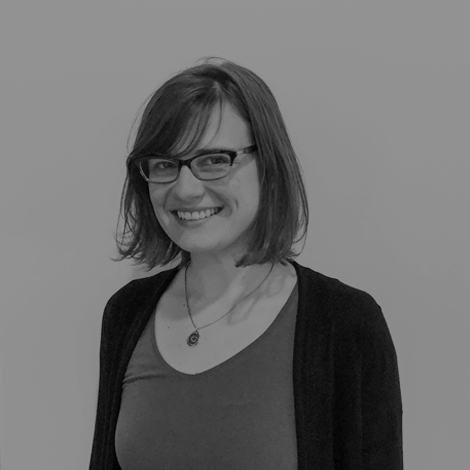
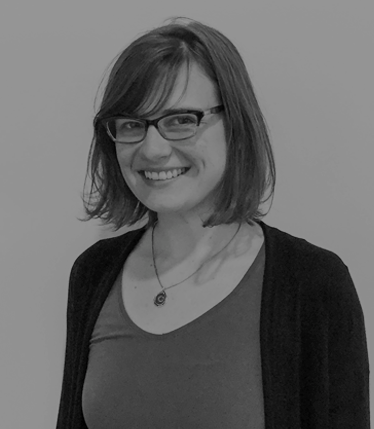
styled about section

Changed region(s): [[0.1471, 0.0303, 1.0, 1.0], [0.4706, 0.6364, 0.5, 0.6667], [0.3235, 0.7273, 0.3529, 0.7576]]

diff --git a/styles/main.css b/styles/main.css
@@ -1,1 +1,1 @@
-@font-face{font-family:'Code';src:url('fonts/Code_Pro_Demo-webfont.woff');font-weight:normal;font-style:normal}html{font-size:62.5%}body{font-family:Futura,Arial,sans-serif}.code-font{font-family:'Code',Futura,sans-serif}.body-font{font-family:Futura,sans-serif}header#header{z-index:1;display:none;position:fixed;width:100%;background-color:#323232;-webkit-transition:background-color 1s;transition:background-color 1s}header#header .headerName{float:left;display:inline-block;font-family:'Code',Futura,sans-serif;color:white}header#header .headerName h1{margin-top:10px;margin-bottom:10px;font-size:4.0rem;font-size:40px}header#header .headerName h2{margin-top:0;font-size:2.8rem;font-size:28px;text-align:center}header#header .header{float:right;display:inline-block;margin-top:10px}header#header .header .navbar{margin-bottom:0}header#header .header .navbar-default{background-color:transparent;border:none}header#header .header .navbar-default a{color:#fff}header#header .header .navbar-default .nav>li>a:hover,header#header .header .navbar-default .nav>li>a:focus{background-color:transparent}header#header .header .navbar-default .navbar-toggle{margin-top:4px;border:none}header#header .header .navbar-default .navbar-toggle:hover,header#header .header .navbar-default .navbar-toggle:focus{background-color:transparent}header#header .header .navbar-default .navbar-toggle .icon-bar{background-color:#fff}header#header .header .navbar-default .navbar-collapse{box-shadow:none;border-top:none}#header.scrollDown{background-color:#f3f3f3;-webkit-transition:background-color 1s;transition:background-color 1s}#top{position:absolute;top:0;height:100vh;width:100%}.portfolio-item{display:none;opacity:0}.portfolio-img{width:75%;height:75%}#portfolio .row{position:absolute;min-height:100vh;width:100%}#portfolio .row:first-child{top:100vh}#portfolio .row:nth-child(2){top:200vh}#portfolio .row:last-child{top:300vh}#portfolio #portfolio-description-1{display:none;opacity:0}#portfolio #portfolio-image-1{display:none;opacity:0}#portfolio #portfolio-image-1 img{width:75%;height:75%}#portfolio #portfolio-item-2{background-color:#f3f3f3}#portfolio #portfolio-item-2 #portfolio-description-2{display:none;opacity:0}#portfolio #portfolio-item-2 #portfolio-image-2{display:none;opacity:0}#portfolio #portfolio-item-2 #portfolio-image-2 img{width:75%;height:75%}#portfolio #portfolio-description-3{display:none;opacity:0}#portfolio #portfolio-image-3{display:none;opacity:0}#portfolio #portfolio-image-3 img{width:75%;height:75%}#about{position:absolute;top:0;height:100vh;width:100%}footer{position:absolute;top:400vh;width:100%;background-color:#323232}footer h1{font-family:'Code',Futura,sans-serif;color:#fff}footer .social-media-container ul{margin:25px auto 0 auto;width:255px;padding-left:0;list-style-type:none}footer .social-media-container ul li{display:inline-block;margin-left:15px;margin-right:15px}footer .social-media-container ul li .icon-github-01,footer .social-media-container ul li .icon-twitter-3,footer .social-media-container ul li .icon-linkedin,footer .social-media-container ul li .icon-mail{font-size:30rem;font-size:30px;color:#fff}footer p{margin-bottom:5px;text-align:right;font-family:'Code',Futura,sans-serif;color:#fff}
+@font-face{font-family:'Code';src:url('fonts/Code_Pro_Demo-webfont.woff');font-weight:normal;font-style:normal}html{font-size:62.5%}body{font-family:Futura,Arial,sans-serif}.code-font{font-family:'Code',Futura,sans-serif}.body-font{font-family:Futura,sans-serif}.section{position:absolute;height:100vh;width:100%}.vertical-align{position:absolute;top:50%;transform:translateY(-50%);-ms-transform:translateY(-50%);-webkit-transform:translateY(-50%)}header#header{z-index:1;display:none;position:fixed;width:100%;background-color:#323232;-webkit-transition:background-color 1s;transition:background-color 1s}header#header .headerName{float:left;display:inline-block;font-family:'Code',Futura,sans-serif;color:white}header#header .headerName h1{margin-top:10px;margin-bottom:10px;font-size:4.0rem;font-size:40px}header#header .headerName h2{margin-top:0;font-size:2.8rem;font-size:28px;text-align:center}header#header .header{float:right;display:inline-block;margin-top:10px}header#header .header .navbar{margin-bottom:0}header#header .header .navbar-default{background-color:transparent;border:none}header#header .header .navbar-default a{color:#fff}header#header .header .navbar-default .nav>li>a:hover,header#header .header .navbar-default .nav>li>a:focus{background-color:transparent}header#header .header .navbar-default .navbar-toggle{margin-top:4px;border:none}header#header .header .navbar-default .navbar-toggle:hover,header#header .header .navbar-default .navbar-toggle:focus{background-color:transparent}header#header .header .navbar-default .navbar-toggle .icon-bar{background-color:#fff}header#header .header .navbar-default .navbar-collapse{box-shadow:none;border-top:none}#header.scrollDown{background-color:#f3f3f3;-webkit-transition:background-color 1s;transition:background-color 1s}#top{position:absolute;height:100vh;width:100%;top:0}.portfolio-item{display:none;opacity:0}.portfolio-img{width:75%;height:75%}#portfolio .row{position:absolute;height:100vh;width:100%}#portfolio .row:first-child{top:100vh}#portfolio .row:nth-child(2){top:200vh}#portfolio .row:last-child{top:300vh}#portfolio #portfolio-description-1{display:none;opacity:0}#portfolio #portfolio-image-1{display:none;opacity:0}#portfolio #portfolio-image-1 img{width:75%;height:75%}#portfolio #portfolio-item-2{background-color:#f3f3f3}#portfolio #portfolio-item-2 #portfolio-description-2{display:none;opacity:0}#portfolio #portfolio-item-2 #portfolio-image-2{display:none;opacity:0}#portfolio #portfolio-item-2 #portfolio-image-2 img{width:75%;height:75%}#portfolio #portfolio-description-3{display:none;opacity:0}#portfolio #portfolio-image-3{display:none;opacity:0}#portfolio #portfolio-image-3 img{width:75%;height:75%}.about-container{position:relative;height:70vh}#about{position:absolute;top:400vh;height:90vh;width:100%;background-color:#f3f3f3;padding-top:10vh;padding-bottom:10vh}#about .about-image-container{position:relative;height:70vh}#about .about-image-container .about-image{position:absolute;top:50%;transform:translateY(-50%);-ms-transform:translateY(-50%);-webkit-transform:translateY(-50%)}#about .about-image-container .about-image img{height:100%;width:100%}#about .about-text-container{position:relative;height:70vh}#about .about-text-container .about-text{position:absolute;top:50%;transform:translateY(-50%);-ms-transform:translateY(-50%);-webkit-transform:translateY(-50%)}#about .about-text-container .about-text h1{font-family:'Code',Futura,sans-serif;margin-top:0;margin-bottom:10px;text-align:center}#about .about-text-container .about-text p{font-size:16rem;font-size:16px}footer{position:absolute;top:490vh;width:100%;background-color:#323232}footer h1{font-family:'Code',Futura,sans-serif;color:#fff}footer .social-media-container ul{margin:25px auto 0 auto;width:255px;padding-left:0;list-style-type:none}footer .social-media-container ul li{display:inline-block;margin-left:15px;margin-right:15px}footer .social-media-container ul li .icon-github-01,footer .social-media-container ul li .icon-twitter-3,footer .social-media-container ul li .icon-linkedin,footer .social-media-container ul li .icon-mail{font-size:30rem;font-size:30px;color:#fff}footer p{margin-bottom:5px;text-align:right;font-family:'Code',Futura,sans-serif;color:#fff}

diff --git a/index.html b/index.html
@@ -46,7 +46,7 @@
     </div>
   </header>
   <!--BODY/ABOUT-->
-  <div id="about">
+  <div id="top">
     <div class="container-fluid">
       <div class="row">
         <div class="col-md-5">
@@ -133,6 +133,24 @@
     </div>
   </div>
   <div id="about">
+    <div class="container-fluid">
+      <div class="row">
+        <div class="col-md-offset-2 col-md-3 about-image-container">
+          <div class="about-image">
+            <img src="styles/images/carmen_krol.png" />
+          </div>
+        </div>
+        <div class="col-md-4 about-text-container">
+          <div class="about-text">
+            <h1>Hi there!</h1>
+            <h1>I'm Carmen Krol</h1>
+            <p>I thrive at the intersection of programming and user design.  With my extensive front-end technical skillset and background in user interaction, I love creating useful web applications.</p> 
+            <p>I'm a Front-End Engineer at <a href="http://www.flyrlabs.com" target="_blank">FLYR</a> where I build web interfaces for our ground-breaking products using ReactJS and FluxJS.  I also advise on UI and design.</p>
+            <p>I'm an alum of the Front-End Development program at <a href="https://www.bloc.io" target="_blank">Bloc</a>. My interest in technology stems from my master's degree in Science & Technology Studies from Cornell University, where I researched how users interact with technology.</p>
+          </div>
+        </div>
+      </div>
+    </div>
   </div>
   <footer id="footer">
     <div class="container-fluid">

diff --git a/styles/about.less b/styles/about.less
@@ -1,6 +1,47 @@
+.about-container {
+  position: relative;
+  height: 70vh;
+}
+
 #about {
   position: absolute;
-  top: 0;
-  height: 100vh;
+  top: 400vh;
+  height: 90vh;
   width: 100%;
+  background-color: @light-grey;
+  padding-top: 10vh;
+  padding-bottom: 10vh;
+
+  .about-image-container {
+    .about-container;
+
+    .about-image {
+      .vertical-align;
+
+      img {
+        height: 100%;
+        width: 100%;
+      }
+    }
+  }
+
+  .about-text-container {
+    .about-container;
+
+    .about-text {
+      .vertical-align;
+      h1 {
+        .code-font;
+        margin-top: 0;
+        margin-bottom: 10px;
+        text-align: center;
+      }
+
+      p {
+        font-size: 16rem;
+        font-size: 16px;
+      }
+    }
+  }
+
 }

diff --git a/styles/utils/_sections.less b/styles/utils/_sections.less
@@ -1,0 +1,13 @@
+.section {
+  position: absolute;
+  height: 100vh;
+  width: 100%;
+}
+
+.vertical-align {
+  position: absolute;
+  top: 50%;
+  transform: translateY(-50%);
+  -ms-transform: translateY(-50%);
+  -webkit-transform: translateY(-50%);
+}

diff --git a/styles/portfolio.less b/styles/portfolio.less
@@ -10,9 +10,7 @@
 
 #portfolio {
   .row {
-    position: absolute;
-    min-height: 100vh;
-    width: 100%;
+    .section;
     &:first-child {
       top: 100vh;
     }

diff --git a/styles/footer.less b/styles/footer.less
@@ -1,6 +1,6 @@
 footer {
   position: absolute;
-  top: 400vh;
+  top: 490vh;
   width: 100%;
   background-color: @dark-grey;
   h1 {

diff --git a/styles/top.less b/styles/top.less
@@ -1,6 +1,4 @@
 #top {
-  position: absolute;
+  .section;
   top: 0;
-  height: 100vh;
-  width: 100%;
 }
